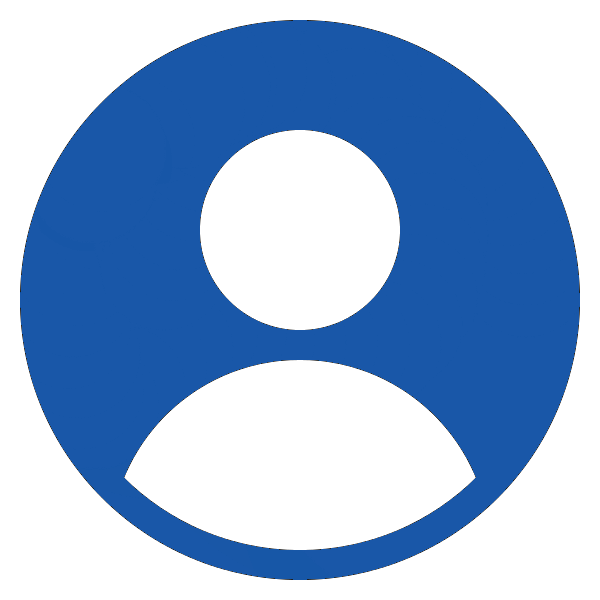
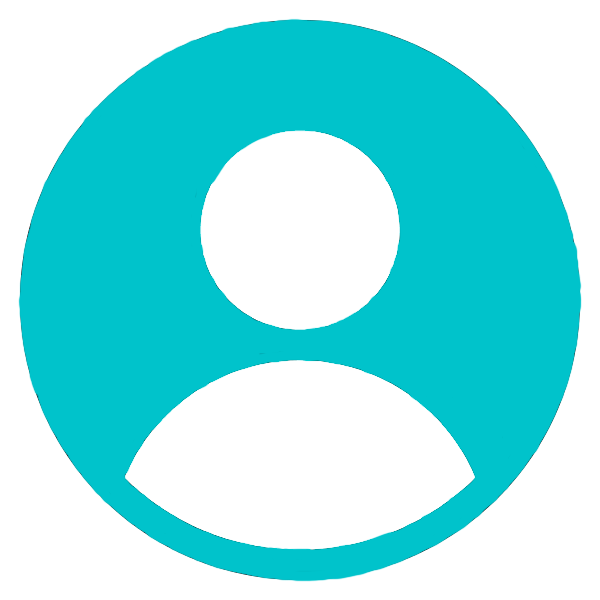
arreglada foto login

diff --git a/src/visual/Login.java b/src/visual/Login.java
@@ -153,7 +153,7 @@ public class Login extends JFrame {
         panelFoto.setBounds(1, 31, 270, 370);
         contentPane.add(panelFoto);
 
-        img = new ImageIcon(getClass().getResource("/visual/imagenes/login2.jpg"));
+        img = new ImageIcon(getClass().getResource("/visual/imagenes/login.jpg"));
         image = img.getImage().getScaledInstance(270, 370, Image.SCALE_SMOOTH);
         Icon fotoLogin = new ImageIcon(image);
 
@@ -165,6 +165,14 @@ public class Login extends JFrame {
         panelInferior.setBounds(271, 31, 380, 370);
         panelInferior.setBackground(Color.white);
         contentPane.add(panelInferior);
+        
+        img = new ImageIcon(getClass().getResource("/visual/imagenes/usuarioLogin.png"));
+        image = img.getImage().getScaledInstance(80, 80, Image.SCALE_SMOOTH);
+        Icon iconUsuario = new ImageIcon(image);
+        
+        JLabel lUsuario = new JLabel(iconUsuario);
+        lUsuario.setBounds(150, 90, 80, 80);
+        panelInferior.add(lUsuario);
         
         txtUsuario = new JTextField("Usuario");
         txtUsuario.addFocusListener(new FocusAdapter() {
